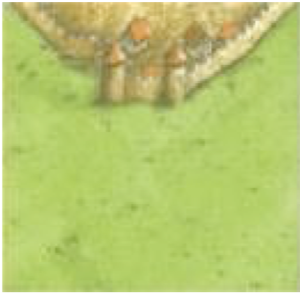
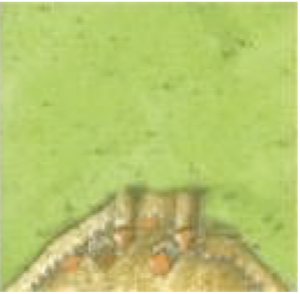
changed rotation method

diff --git a/js/main.js b/js/main.js
@@ -14,7 +14,7 @@ var arrId;
 var tileToMeeple = '';
 var rotateDeg = 0;
 
-var displayTile = '<div class="tile draggable displayCard"><div class="top"></div><div \
+var displayTile = '<div class="tile draggable displayCard"><div class="imgBox"></div><div class="top"></div><div \
 				  class="left"></div><div class="right"></div><div class="bottom"></div></div>';
 
 var playerOne = {
@@ -96,19 +96,19 @@ var cardArr = [
 	right: { type: 'grass', occupied: false, occupant: '', pointValue: 0, paired: false, complete: false}, 
 	bottom: { type: 'castle', occupied: false, occupant: '', pointValue: 1, paired: false, complete: false}, 
 	left: { type: 'castle', occupied: false, occupant: '', pointValue: 1, paired: false, complete: false}, 
-	valueType: 'normal', sidesConnect: true, img: 'url("./img/leftTopBot.png")'},
+	valueType: 'normal', sidesConnect: true, img: 'url("./img/leftTopBotCastle.png")'},
 
 	{ top: { type: 'castle', occupied: false, occupant: '', pointValue: 1, paired: false, complete: false}, 
 	right: { type: 'grass', occupied: false, occupant: '', pointValue: 0, paired: false, complete: false}, 
 	bottom: { type: 'castle', occupied: false, occupant: '', pointValue: 1, paired: false, complete: false}, 
 	left: { type: 'castle', occupied: false, occupant: '', pointValue: 1, paired: false, complete: false}, 
-	valueType: 'normal', sidesConnect: true, img: 'url("./img/leftTopBot.png")'},
+	valueType: 'normal', sidesConnect: true, img: 'url("./img/leftTopBotCastle.png")'},
 
 	{ top: { type: 'castle', occupied: false, occupant: '', pointValue: 1, paired: false, complete: false}, 
 	right: { type: 'grass', occupied: false, occupant: '', pointValue: 0, paired: false, complete: false}, 
 	bottom: { type: 'castle', occupied: false, occupant: '', pointValue: 1, paired: false, complete: false}, 
 	left: { type: 'grass', occupied: false, occupant: '', pointValue: 0, paired: false, complete: false}, 
-	valueType: 'normal', sidesConnect: false, img: 'url("./img/sepTopBot.png")'},	
+	valueType: 'normal', sidesConnect: false, img: 'url("./img/sepTopBotCastle.png")'},	
 
 	{ top: { type: 'grass', occupied: false, occupant: '', pointValue: 0, paired: false, complete: false}, 
 	right: { type: 'grass', occupied: false, occupant: '', pointValue: 0, paired: false, complete: false}, 
@@ -168,8 +168,8 @@ $('document').ready(function() {
 	function addTile(rowNumber) {
 		for (var i = 0; i < ARRAYSIZE; i++) {
 			var tileSquare = '<div class="tile square ui-droppable boxShadow" id="n' + rowNumber + '' + i + '">\
-							  <div class="top">top</div><div class="left">left</div><div class="right">\
-							  right</div><div class="bottom">bottom</div></div>';
+							  <div class="imgBox"></div><div class="top">top</div><div class="left">left</div>\
+							  <div class="right">right</div><div class="bottom">bottom</div></div>';
 			$('.row' + rowNumber).append(tileSquare);
 		}
 	}
@@ -179,7 +179,7 @@ $('document').ready(function() {
 		$('.displayCard > .right').text(value.right.type);
 		$('.displayCard > .bottom').text(value.bottom.type);
 		$('.displayCard > .left').text(value.left.type);
-		$('.displayCard').css('background-image', cardArr[cardCount].img);
+		$('.displayCard > .imgBox').css('background-image', cardArr[cardCount].img);
 
 
 		$('.draggable').draggable({ snap: ".square"});
@@ -212,19 +212,27 @@ $('document').ready(function() {
 
 	}
 	function rotateBtnOn () {
+			// HTML side
 			rotateDeg += 90;
-			$('.displayCard').css('transform', 'rotate(' + rotateDeg + 'deg)');
+			$('.displayCard > .imgBox').css('transform', 'rotate(' + rotateDeg + 'deg)');
+
 			rotateTileValues();
 	}
 	function rotateTileValues() {
-	console.log(cardArr[cardCount]);		
+		// JS side
 		var temp = cardArr[cardCount].top;
-		//console.log(temp); //debug code
 		cardArr[cardCount].top = cardArr[cardCount].left;
 		cardArr[cardCount].left = cardArr[cardCount].bottom;
 		cardArr[cardCount].bottom = cardArr[cardCount].right;
 		cardArr[cardCount].right = temp;
-		console.log(cardArr[cardCount]); //debug code
+
+		// HTML side
+		temp = $('.displayCard > .top').text();
+		$('.displayCard > .top').text($('.displayCard > .left').text());
+		$('.displayCard > .left').text($('.displayCard > .bottom').text());
+		$('.displayCard > .bottom').text($('.displayCard > .right').text());
+		$('.displayCard > .right').text(temp);
+
 	}
 	function updateBoard(arrTile) {
 		//updates HTML board where tile was placed  
@@ -233,13 +241,11 @@ $('document').ready(function() {
 		$('#' + tileDroppedOn + ' > .right').text( $('.displayCard > .right').text());
 		$('#' + tileDroppedOn + ' > .bottom').text( $('.displayCard > .bottom').text());
 		$('#' + tileDroppedOn + ' > .left').text( $('.displayCard > .left').text());
-		
-		$('#' + tileDroppedOn + ' > .top').css('transform', 'rotate(' + (-rotateDeg) + 'deg)');
-		$('#' + tileDroppedOn + ' > .right').css('transform', 'rotate(' + (-rotateDeg) + 'deg)');
-		$('#' + tileDroppedOn + ' > .bottom').css('transform', 'rotate(' + (-rotateDeg) + 'deg)');
-		$('#' + tileDroppedOn + ' > .left').css('transform', 'rotate(' + (-rotateDeg) + 'deg)');
-		$('#' + tileDroppedOn).css('background-image', cardArr[cardCount].img); //works, implement later
-		$('#' + tileDroppedOn).css('transform', 'rotate(' + rotateDeg + 'deg)'); //works, implement later
+		$('#' + tileDroppedOn + ' > .imgBox').css('background-image', cardArr[cardCount].img);
+		console.log(rotateDeg)
+		$('#' + tileDroppedOn + ' > .imgBox').css('transform', 'rotate(' + rotateDeg + 'deg)');
+
+
 		$('.displayCard').remove();
 		console.log('b4 castlePairCheck')
 		console.log(gameBoardArr)
@@ -277,8 +283,6 @@ $('document').ready(function() {
 			monitorMeepPlacementOff();
 	 	} else {
 	 		// trying to target placement & check if occupied
-	 		console.log(gameBoardArr[arrId[1]][arrId[2]][event.target.className])
- 			console.log('occupied: ',gameBoardArr[arrId[1]][arrId[2]][event.target.className].occupied)
 	 		if (gameBoardArr[arrId[1]][arrId[2]][event.target.className].occupied) {
 	 			console.log('aready occupied');
 	 		} else {
@@ -311,21 +315,16 @@ $('document').ready(function() {
 	}
 	function placeMeeple() {
 	// add to html board
-		//console.log(arrId); //debug code
+
 	// add to js board
 	tileMeepled = $(tileToMeeple).attr('class');
-	//console.log(tileMeepled); //debug code
-	//console.log(gameBoardArr[arrId[1]][arrId[2]]); //debug code
 	gameBoardArr[arrId[1]][arrId[2]][tileMeepled].occupied = true;
 	gameBoardArr[arrId[1]][arrId[2]][tileMeepled].occupant = playerTurn;
-	//console.log(gameBoardArr); //debug code
 		if (playerTurn === 0) {
 			playerOne.meeples -= 1;
 		} else {
 			playerTwo.meeples -= 1;
 		}
-		console.log('after meeple placed');
-		console.log(gameBoardArr);
 	}
 
 // meeple functions END
@@ -376,7 +375,6 @@ $('document').ready(function() {
 		for (var i = 0; i < ARRAYSIZE; i++) {
 			for (var j = 0; j < ARRAYSIZE; j++) {
 				// must call checkForPair on each side-possible that castle on multiple sides
-				//console.log(gameBoardArr[i][j]); // debug code
 
 				checkTopSide(i, j);
 				checkRightSide(i, j);
@@ -385,8 +383,6 @@ $('document').ready(function() {
 						
 			}
 		}
-		console.log('after castlePairCheck');
-		console.log(gameBoardArr) // debug code
 	}
 	// currently unused, planned for use in castlecompletecheck
 	function tileCastleCheck(array) {
@@ -402,7 +398,6 @@ $('document').ready(function() {
 			for (var j = 0; j < ARRAYSIZE; j++) {
 				var castleArr = [];
 				var arrObj = gameBoardArr[i][j];
-				// console.log(arrObj); //debug code
 
 			// check squares that have multi-sides that are connected
 				// checks if a tile has > 1 castle side

diff --git a/css/style.css b/css/style.css
@@ -38,12 +38,18 @@
 	display: flex;
 	height: 100px;
 	width: 100px;
-	transform-origin: 50% 50%;
-	transform: rotate(0deg);
-	transition: transform 300ms ease-in-out;
 	z-index: 1;
 }
-
+.imgBox {
+	height: 100px;
+	width: 100px;
+	position: absolute;
+ 	transform: rotate(0deg);
+	background-size: contain;
+	background-size: cover;
+	background-repeat: no-repeat;
+	z-index: -1;
+}
 #gameBoard {
 	width: 50%;
 	height: auto;
@@ -62,29 +68,29 @@
 	height: 100px;
 	width: 100px;
 	border: 1px solid black;
-	background-size: cover;
-	background-repeat: no-repeat;
 	border-radius: 2px;
 
 }
 .boxShadow {
 	box-shadow: inset 0px 1px 10px black;	
 }
+
 .top, .bottom {
 	width: 100%;
 	box-sizing: border-box;
-	transform-origin: 50% 50%;
+
 }
 .left, .right {
 	width: 50%;
 	box-sizing: border-box;
-	transform-origin: 50% 50%;
+
 }
 .meepleImage {
 	height: 25px;
 	width: 25px;
 	background-size: contain;
 	display: inline-block;
+	z-index: 1;
 }
 .meepleRed {
 	background-image: url('./../img/meepleRed.png');

diff --git a/index.html b/index.html
@@ -25,10 +25,11 @@
 			<div class='nextBox'>
 				<p>Tile to Place</p>
 				<div class='tile draggable displayCard rotate'>
-					<div class="top">top</div>
-						<div class="left">left</div>
-						<div class="right">right</div>
-					<div class="bottom">bottom</div>
+					<div class='imgBox'></div>
+					<div class='top'>top</div>
+					<div class='left'>left</div>
+					<div class='right'>right</div>
+					<div class='bottom'>bottom</div>
 				</div>
 			</div>
 		</div>
